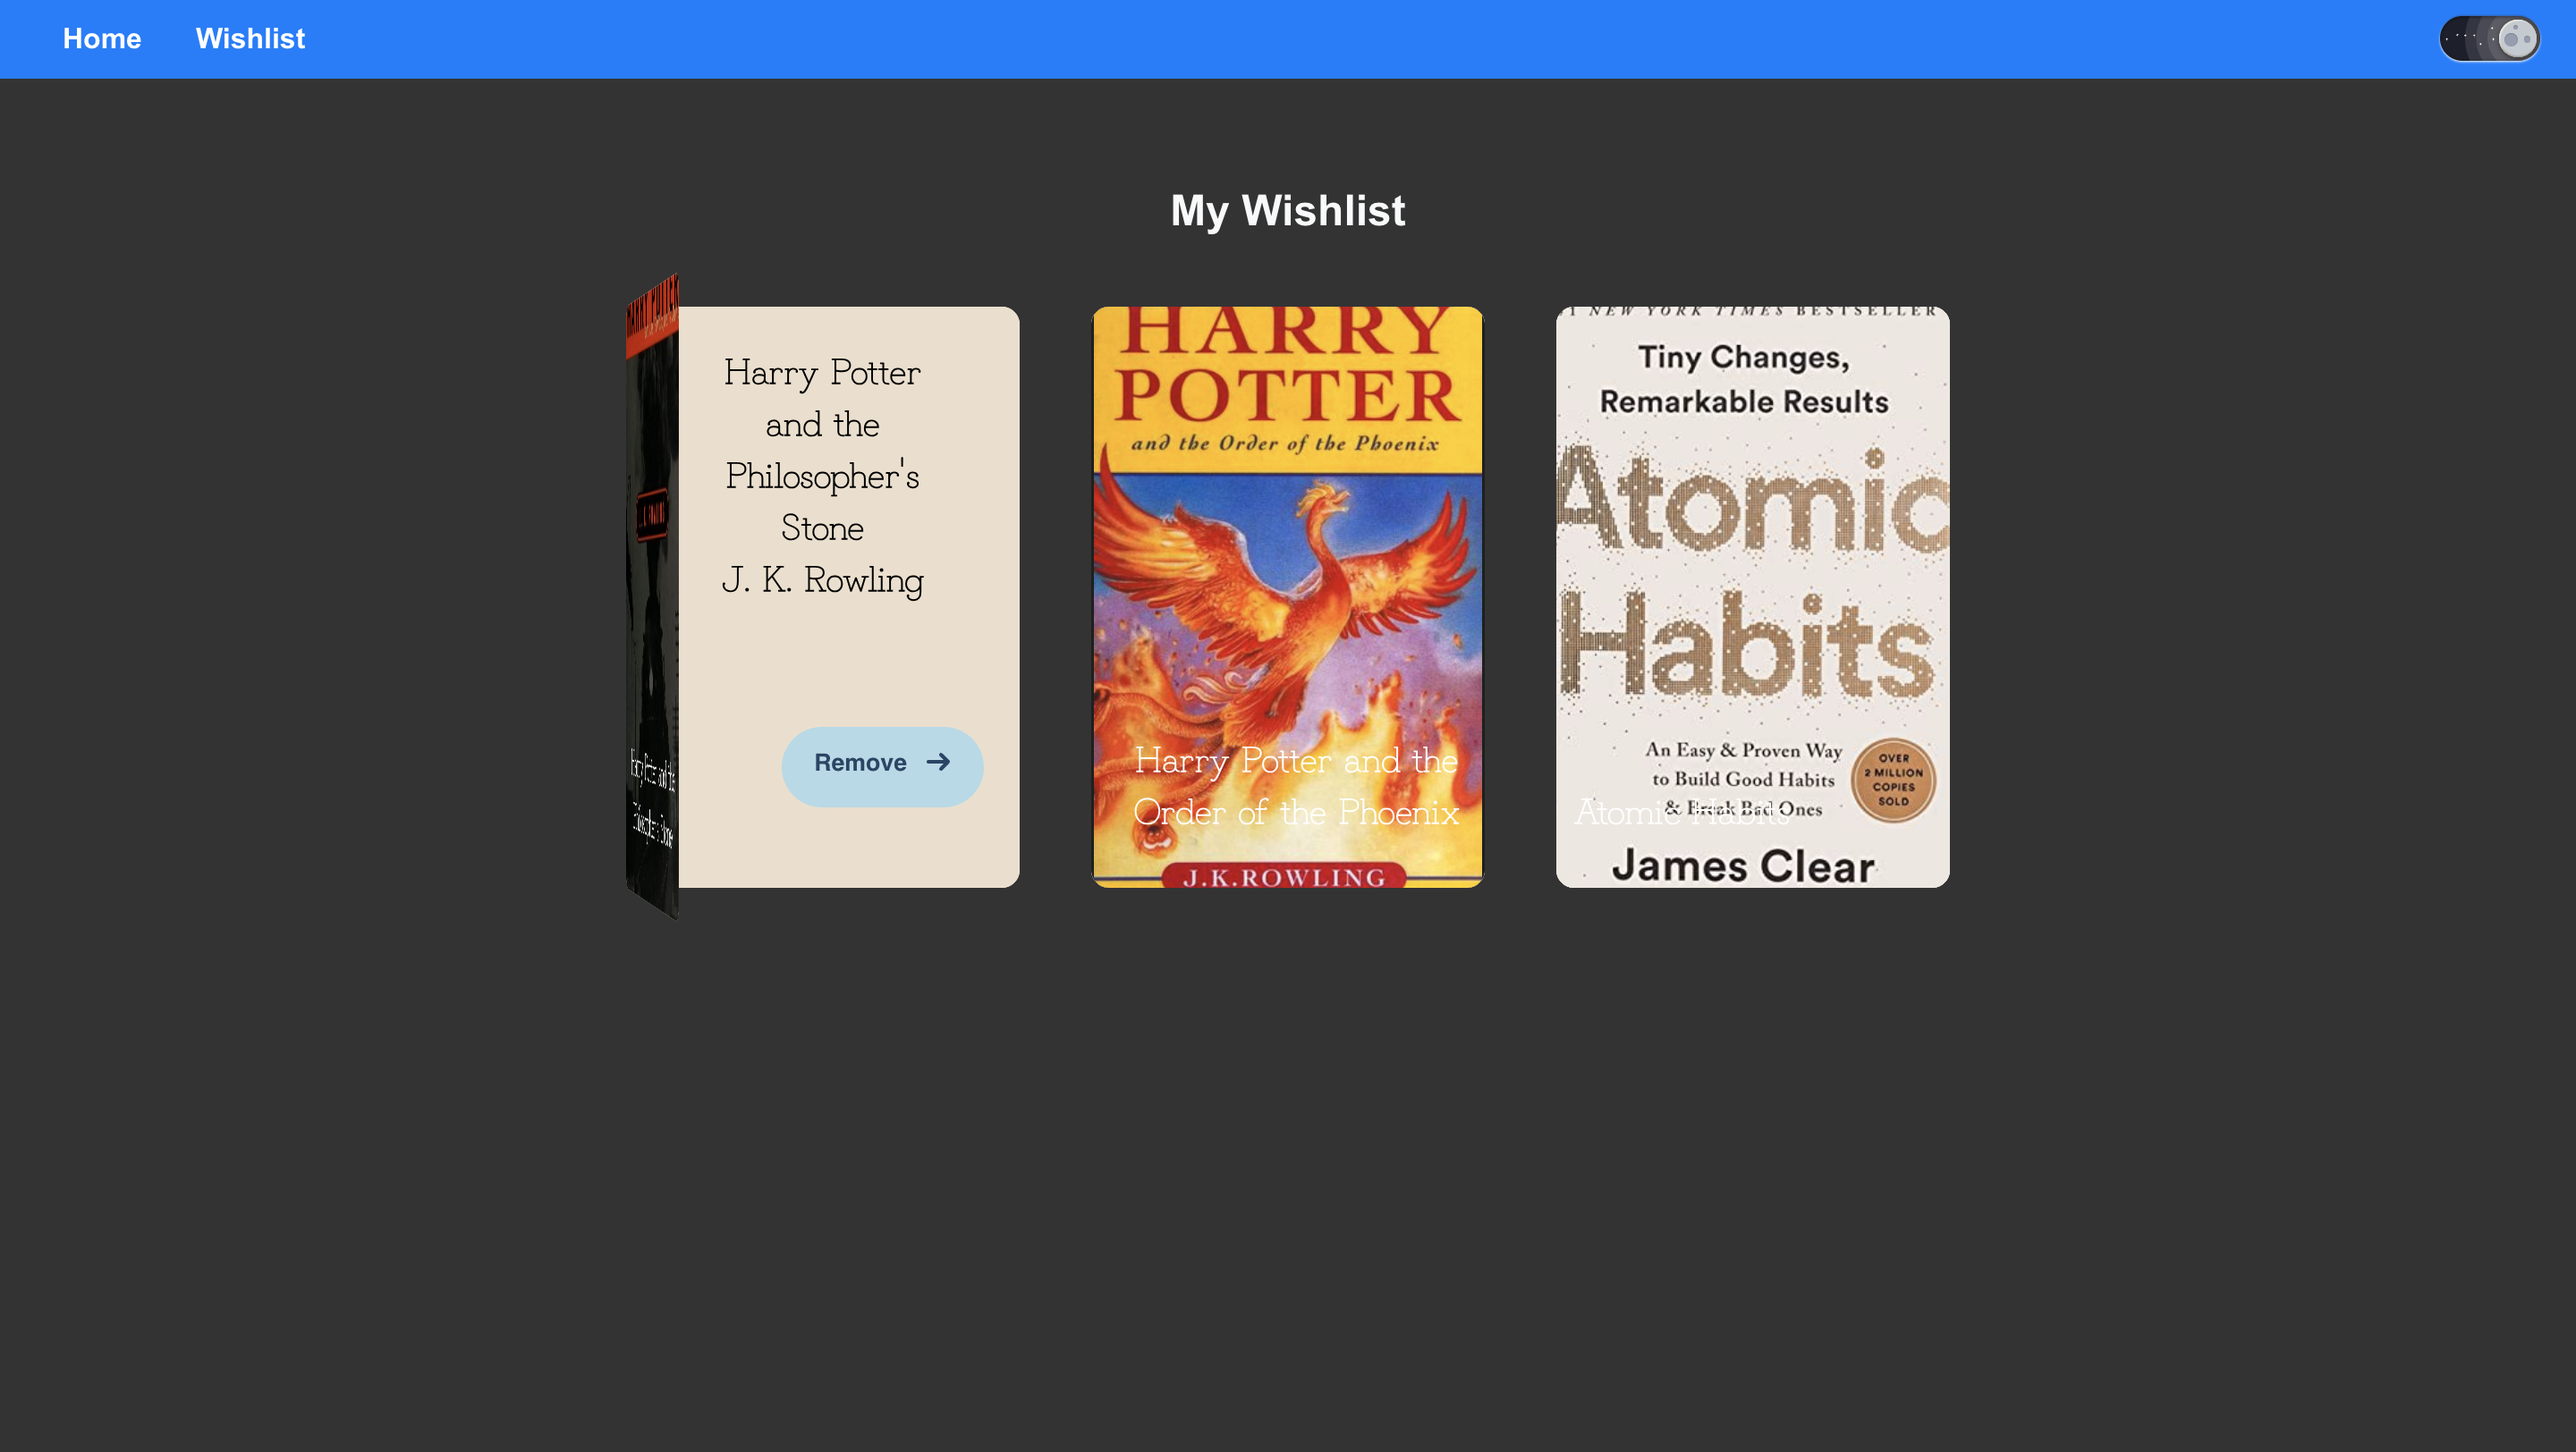
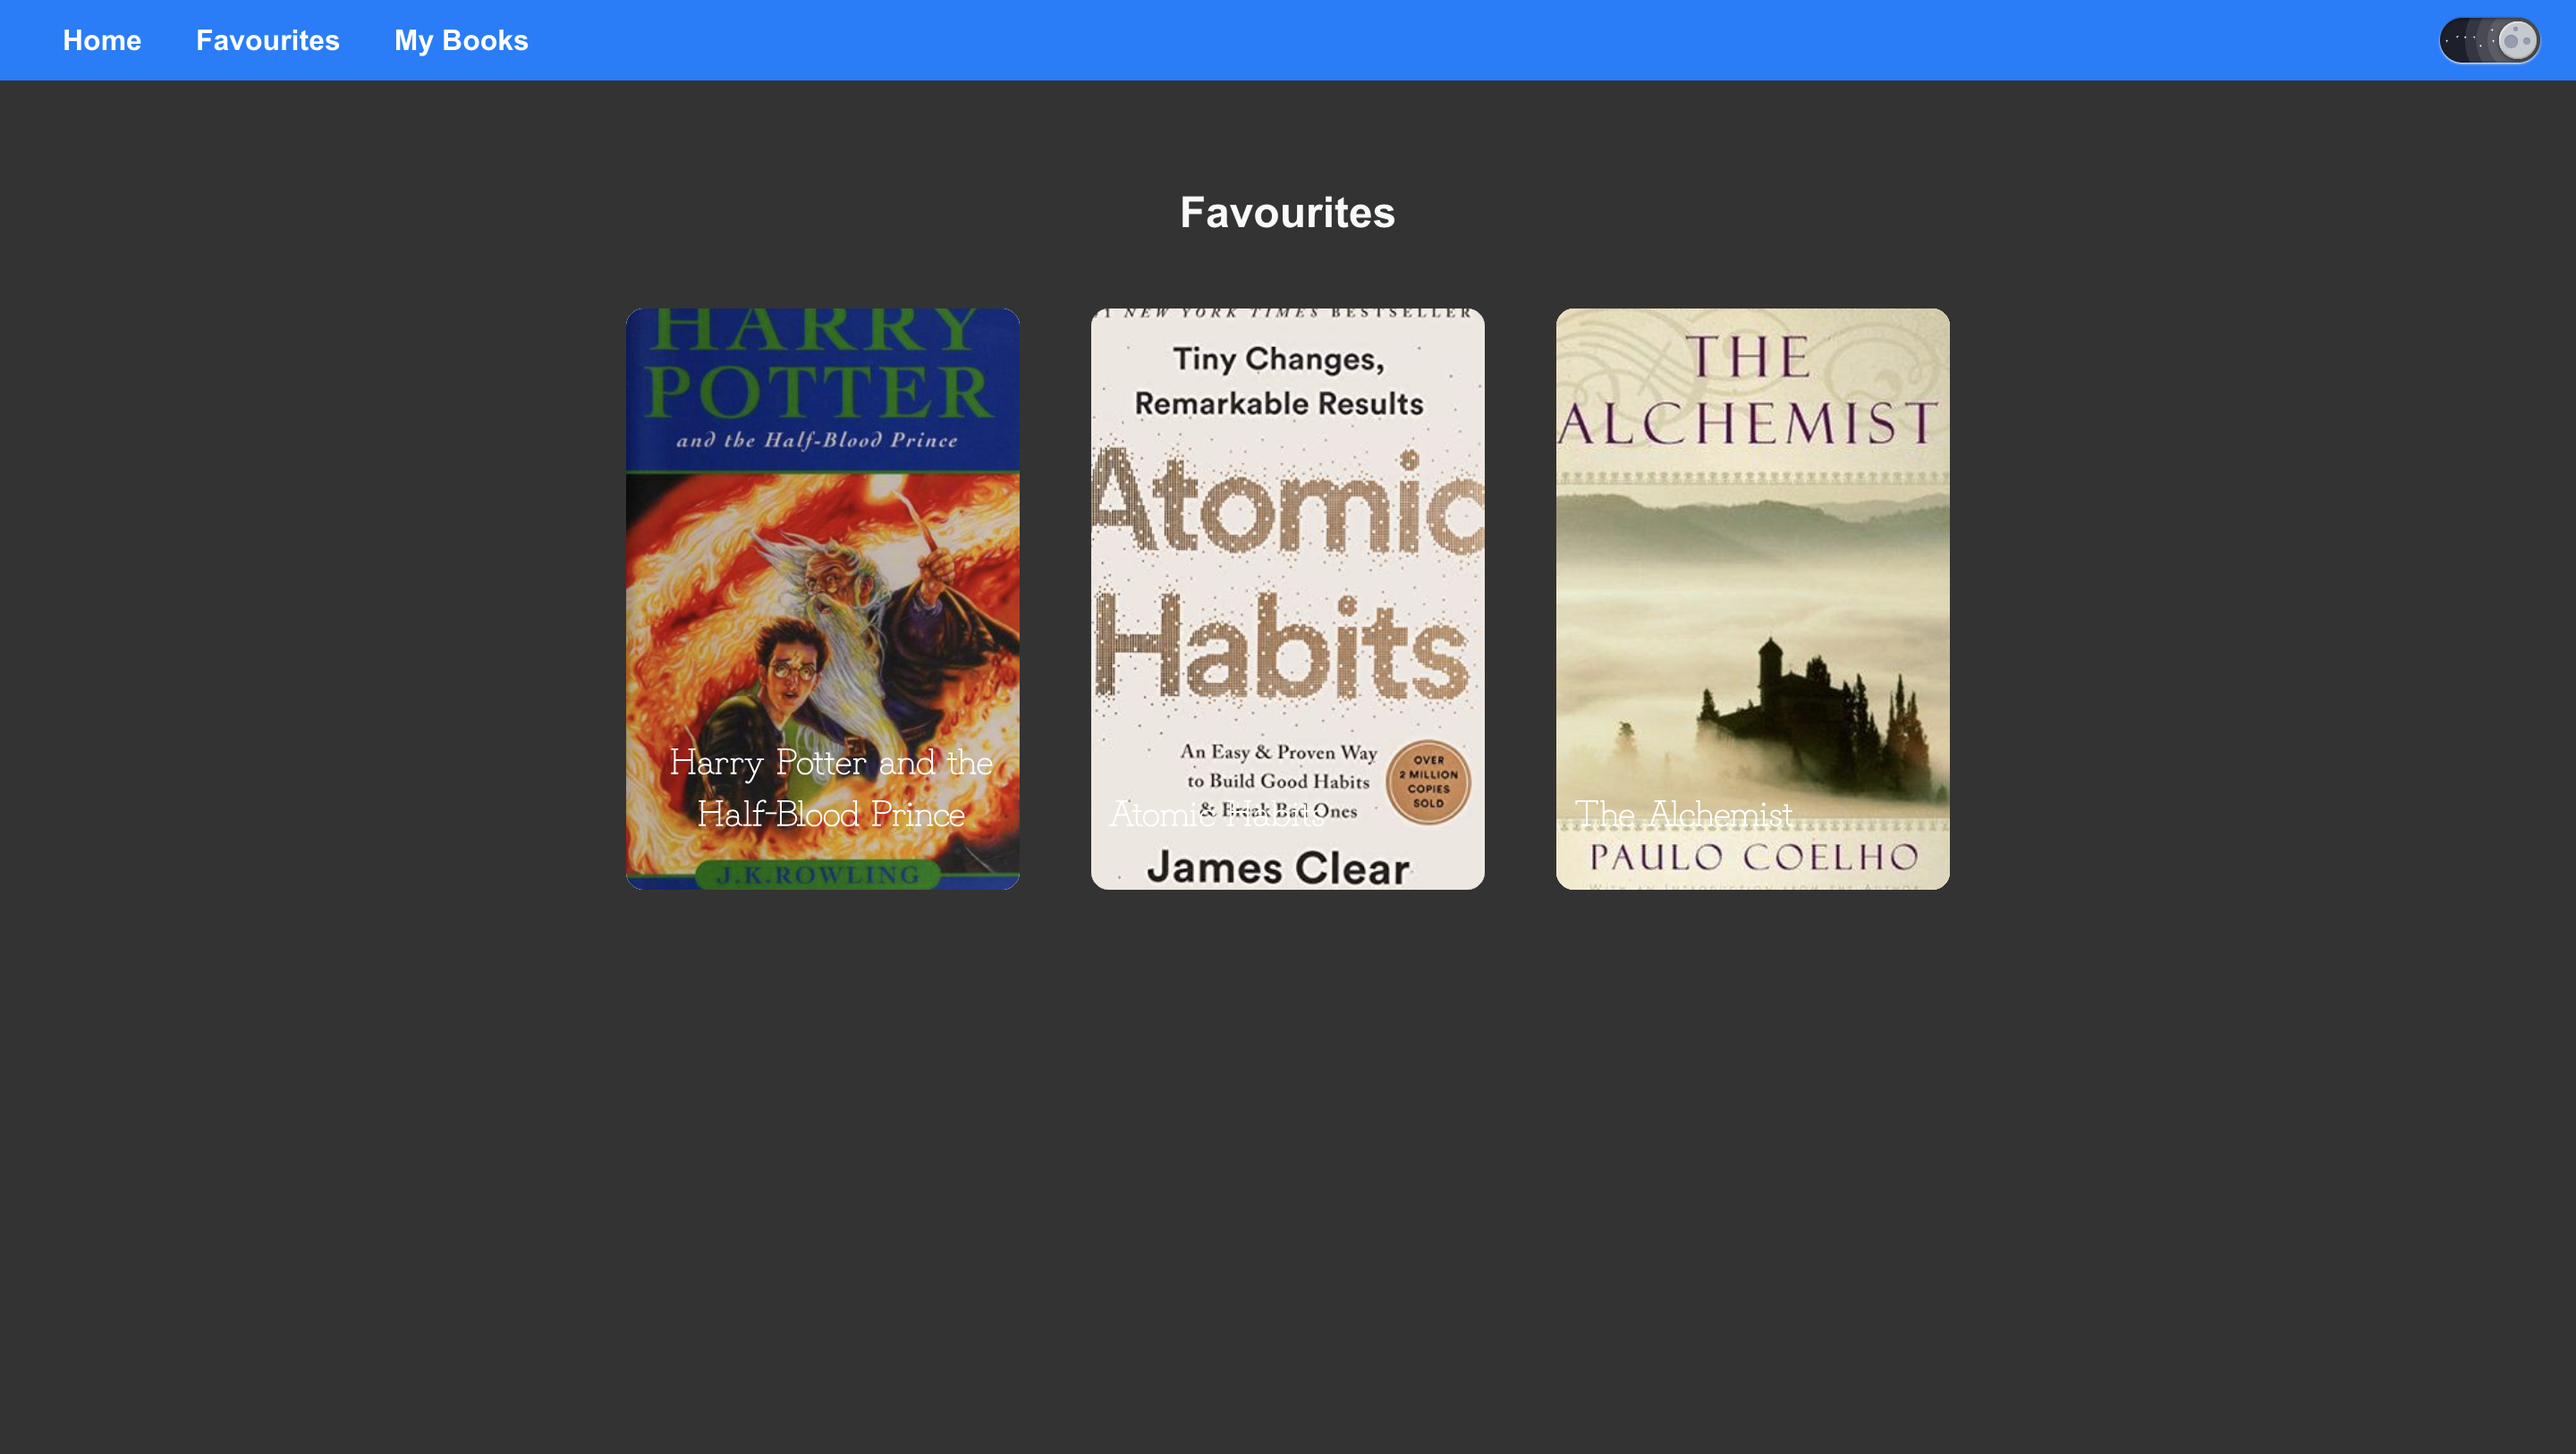
Completed frontend4

diff --git a/README.md b/README.md
@@ -1,11 +1,13 @@
 # BookShelf
 A react app to find and add books to a wishlist
 
+sear for bokks in your shelf aswell as external source
 <img width="1000" alt="Screenshot 2024-08-15 at 9 44 07 PM" src="./ScreenShots/1.png">
 
+Your Bookshelf - to add the books that you own
 <img width="1440" alt="Screenshot 2024-08-15 at 9 44 52 PM" src="./ScreenShots/2.png">
 
-Wishlist
+Favourites
 <img width="1440" alt="Screenshot 2024-08-15 at 9 45 35 PM" src="./ScreenShots/3.png">
 
 Light Mode
